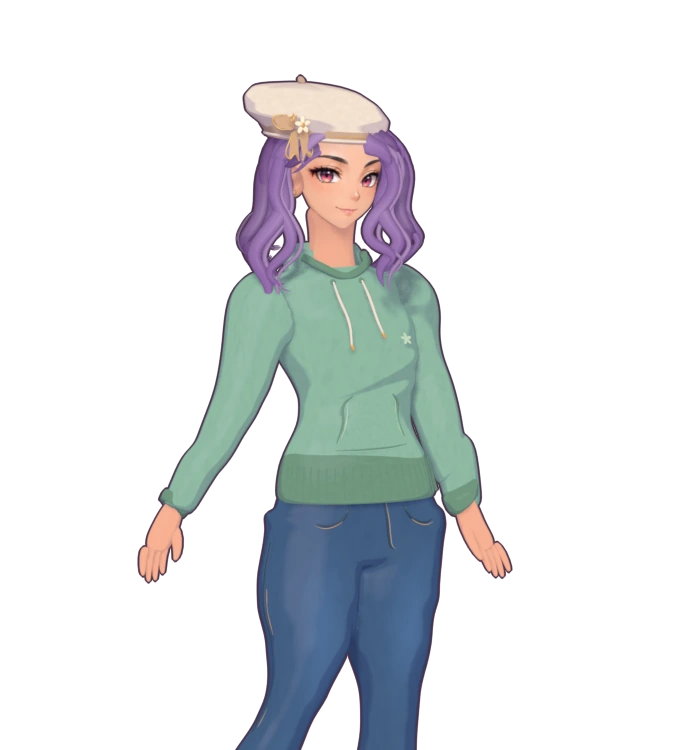
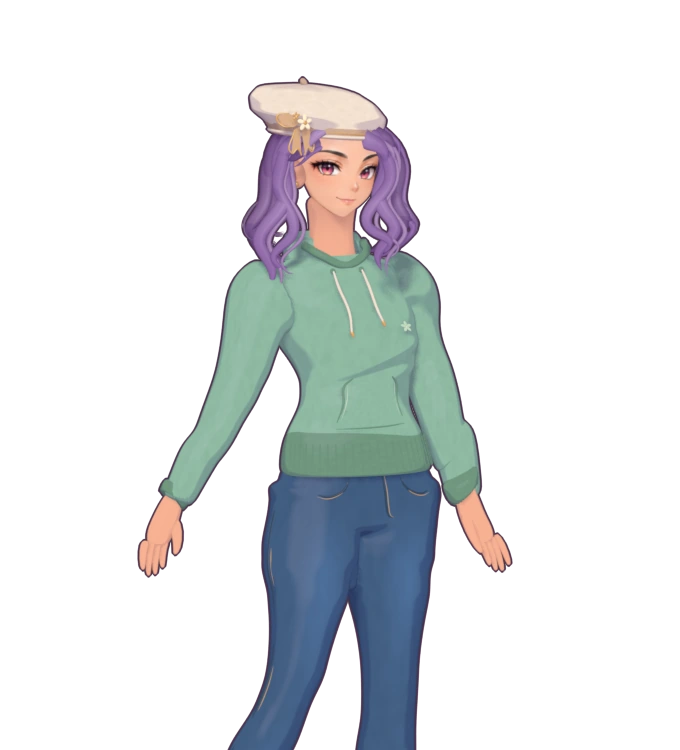
Refit wardrobe studio silhouette and leg proportions

Changed region(s): [[0.1853, 0.092, 0.7721, 1.0], [0.4324, 0.7667, 0.5559, 1.0], [0.525, 0.9813, 0.5559, 1.0]]

diff --git a/docs/avatar-3d.html b/docs/avatar-3d.html
@@ -7,7 +7,7 @@
 <meta name="description" content="같은 코디의 2D 원화와 3D 모델 렌더를 비교해 보세요.">
 <title>캐릭터 제작 시안 · 알찬끼</title>
 <link rel="stylesheet" href="./avatar-3d.css">
-<script type="module" src="./avatar-3d.mjs?v=7"></script>
+<script type="module" src="./avatar-3d.mjs?v=8"></script>
 </head>
 <body>
 <main>

diff --git a/scripts/avatar-studio/render.py b/scripts/avatar-studio/render.py
@@ -1031,6 +1031,14 @@ LEG_FIT = {
          (925, 948, 374, 381, .90), (1016, 1016, 374, 382, .94)],
 }
 
+# Projected landmarks after the reference pose is fitted. Lift the waist
+# and inseam, keeping the shoes grounded and the knee bend gradual.
+SILHOUETTE_HEIGHTS = [
+    (185, 176), (248, 236), (310, 300), (374, 358),
+    (445, 424), (510, 482), (562, 529), (628, 583), (660, 613),
+    (707, 686), (797, 784), (898, 895), (1016, 1016), (1060, 1060),
+]
+
 
 def smooth_range(value, start, end):
     t = max(0, min(1, (value-start)/(end-start)))
@@ -1076,6 +1084,7 @@ def fit_reference_pose(scene):
     body = smooth_profile(TORSO_FIT)
     arms = {side: smooth_profile(rows) for side,rows in ARM_FIT.items()}
     legs = {side: smooth_profile(rows) for side,rows in LEG_FIT.items()}
+    silhouette_height = smooth_profile(SILHOUETTE_HEIGHTS)
 
     def screen(point):
         p = inverse @ point
@@ -1084,11 +1093,12 @@ def fit_reference_pose(scene):
     def refit(point, region, side):
         x,y,depth = screen(point)
         if region == "head":
-            # Scale around the crown and bring in the hair and hat together.
-            return view @ Vector((left+(340+(x-340)*.775)/px,
-                                  top-(97+(y-97)*.779)/py, depth))
+            # Keep the face, hair and hat in the same fitting group.
+            return view @ Vector((left+(340+(x-340)*.731)/px,
+                                  top-(97+(y-97)*.710)/py, depth))
         y_fit, shift, width = body(y)
         x_fit = 340+(x-340)*width+shift
+        axis_fit = 340+shift
         if region == "arm":
             t = smooth_range(y,312,368)
             arm_y,arm_shift = arms[side](y)
@@ -1109,13 +1119,25 @@ def fit_reference_pose(scene):
             foot_x,foot_y,foot_depth = screen(turned)
             x_fit = x_fit*(1-t) + (new_axis+(foot_x-axis)*scale)*t
             y_fit = y_fit*(1-t) + (leg_y+foot_y-y)*t
+            axis_fit = axis_fit*(1-t)+new_axis*t
             depth += (foot_depth-depth)*t
         elif region == "coat":
             # Give the front of the skirt ease over the bent thigh. The
             # back cloth still hangs behind the legs in the same 3D view.
             facing = 1-smooth_range(point.y,.01,.24)
             depth += .16*facing*smooth_range(y,546,632)
-        return view @ Vector((left+x_fit/px,top-y_fit/py,depth))
+        taper = smooth_range(y_fit,335,486)*(1-smooth_range(y_fit,658,814))
+        if region == "arm":
+            taper *= 1-smooth_range(y,312,368)
+        width_factor = 1-.052*taper
+        if region == "leg":
+            width_factor -= .06*smooth_range(y_fit,891,985)
+        x_fit = axis_fit+(x_fit-axis_fit)*width_factor
+        lifted, = silhouette_height(y_fit)
+        if region == "arm":
+            # Let the bent elbows and wrists hang at their original reach.
+            lifted += (y_fit-6-lifted)*smooth_range(y,330,545)
+        return view @ Vector((left+x_fit/px,top-lifted/py,depth))
 
     bpy.context.view_layer.update()
     for obj in scene.objects:

diff --git a/scripts/avatar-studio/STYLE-GUIDE.md b/scripts/avatar-studio/STYLE-GUIDE.md
@@ -4,6 +4,7 @@
 
 ## 형태와 선
 
+- 전신은 모자를 벗긴 상태에서 정수리와 발바닥 높이를 맞춰 비교한다. 같은 화면에서 허리선과 가랑이 높이, 무릎에서 발목까지의 흐름을 확인한다. 몸판과 데님의 세로 비율은 `SILHOUETTE_HEIGHTS`에서 함께 맞추고, 손은 소매와 함께 움직인다. 머리 크기를 조정할 때는 앞머리와 모자도 같이 움직여 목과 챙의 겹침을 확인한다.
 - 머리카락은 가르마에서 출발해 관자놀이와 어깨를 따라 크게 나눈다. 좌우 가닥의 끝 높이와 방향을 다르게 두고, 가닥끼리 겹치는 곳과 사이로 배경이 보이는 곳을 모두 만든다. 큰 곡선에는 가는 보조 가닥과 색선을 얹는다. 눈매와 볼을 드러내고 베레모 아래에서는 뿌리와 앞머리를 챙 안쪽으로 눌러 맞춘다.
 - 전체 외곽선은 짙은 자주색으로 두고 내부 주름과 봉제선은 주변 원단색에 가깝게 잡는다. 얼굴은 기존 눈·입 표현이 읽히도록 그늘 경계를 완만하게 한다. 머리의 하이라이트는 가닥이 굽는 구간에 짧게 모으며, 넓은 천에는 큰 그림자 면을 먼저 배치한다.
 - 주름에는 천을 당기거나 접는 이유가 있어야 한다. 손목과 무릎에서는 관절의 굽힘에 따라 주름이 모이고, 허리와 코트 자락에서는 천이 걸리는 지점부터 주름이 펼쳐진다. 확대에서 작은 무늬가 주름과 같은 방향으로 이어지는지 본다.
@@ -24,4 +25,4 @@
 - `render.py`에서 모델과 재질을 만든다. 봉제선과 끈은 `garment_front`나 신발·코트의 곡면 함수를 이용해 표면을 따라 올린다. 의상의 형태를 바꿨을 때도 장식 위치를 함께 확인한다.
 - 전체 착장을 투명 PNG로 출력한 뒤 `pack.py`를 실행한다. 패커는 원본 프레임이 비어 있거나 가장자리에 잘린 픽셀이 있을 때, 두 이미지가 이어지는 데님 구간에서 양쪽 알파의 자리가 벗어날 때 중단한다.
 - 모자가 있는 코디와 없는 코디를 각각 전신·머리·목과 소매·신발 확대에서 본다. 후디와 코트, 운동화와 부츠를 모두 바꿔 입히고 390px 화면에서 가장 먼저 보이는 형태와 대비를 확인한다. 턱선과 머리끝, 주머니 가장자리, 신발 입구 및 끈구멍은 확대해서 확인한다.
-- `tests/avatar-studio-browser.cjs`에서 8개 착장, 4개 보기, 원화와 주요 비율, 이어지는 데님, 모바일 화면을 검사한다. 빛의 모양, 머리의 흐름, 봉제선의 자연스러움은 전후 확대 렌더를 보고 판단한다.
+- `tests/avatar-studio-browser.cjs`에서 8개 착장, 4개 보기, 가랑이 높이와 머리·골반·발목 위치, 이어지는 데님, 모바일 화면을 검사한다. 가랑이 높이는 다리 사이 투명 구간이 연속으로 나타나는 첫 줄을 기준으로 비교한다. 빛의 모양, 머리의 흐름, 봉제선의 자연스러움은 전후 확대 렌더를 보고 판단한다.
